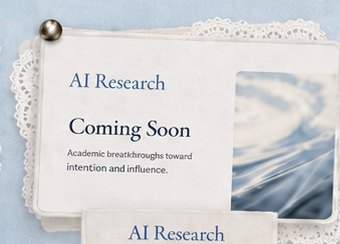
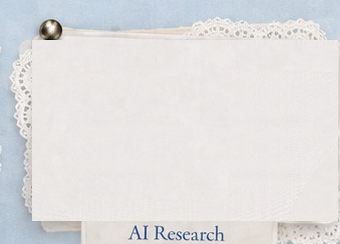
Clear the printed AI Research card off the small sheet so CueLens sits on it properly
The sheet came printed with its own card: a title, a paragraph and a photo
down the right side. Covering that with the screenshot meant matching its
rectangle to the pixel, and it was three pixels short, so a dark strip of the
printed photo ran down the right edge of the card.

Cleared the printing instead. The card is blank paper now, so the screenshot
sits on it with an even margin like every other project, and being a few
pixels out shows nothing but paper. The fill is worked out from the card's
own blank paper by a blur that ignores the printed pixels, so the photo's
darkness cannot bleed into what replaces it.

Only the inside of the printed card is rewritten. The sheet is a crop of the
backdrop and its outer margin is byte for byte what it was, which is what
keeps the paper disappearing into the wall.

The pin stays printed where she drew it, and the screenshot starts below it
rather than slicing it in half.

diff --git a/index.html b/index.html
@@ -994,11 +994,11 @@ const PROJECTS = [
   {id:"cuelens", laceImg:"assets/work/lace-airesearch.png", cardImg:"assets/work/card-cuelens.jpg",
    href:"https://cuelensai.vercel.app/",
    lace:{x: 606, y: 576, w: 340, h: 244},
-   /* this sheet is drawn with its own card and pin already on it, so the
-      screenshot is cut to that card and the pin on the paper is the pin */
-   card:{x: 634, y: 614, w: 304, h: 178, ang: 0},
+   /* this sheet came printed with its own blank card and a pin; the card is
+      the paper the screenshot sits on and the pin on it is its pin */
+   card:{x: 646, y: 621, w: 290, h: 165, ang: 0},
    pin: null,
-   label:{x: 657, y: 788, w: 238, h: 82, padTop: 12},
+   label:{x: 657, y: 780, w: 238, h: 82, padTop: 12},
    title:"CueLens", desc:"AI-powered interface review<br>for conflicting visual cues."},
 
   {id:"magnusmap", laceImg:"assets/work/lace-magnusmap.png", cardImg:"assets/work/card-magnusmap.jpg", href:"https://aashvigeddam.github.io/magnus-map/",
